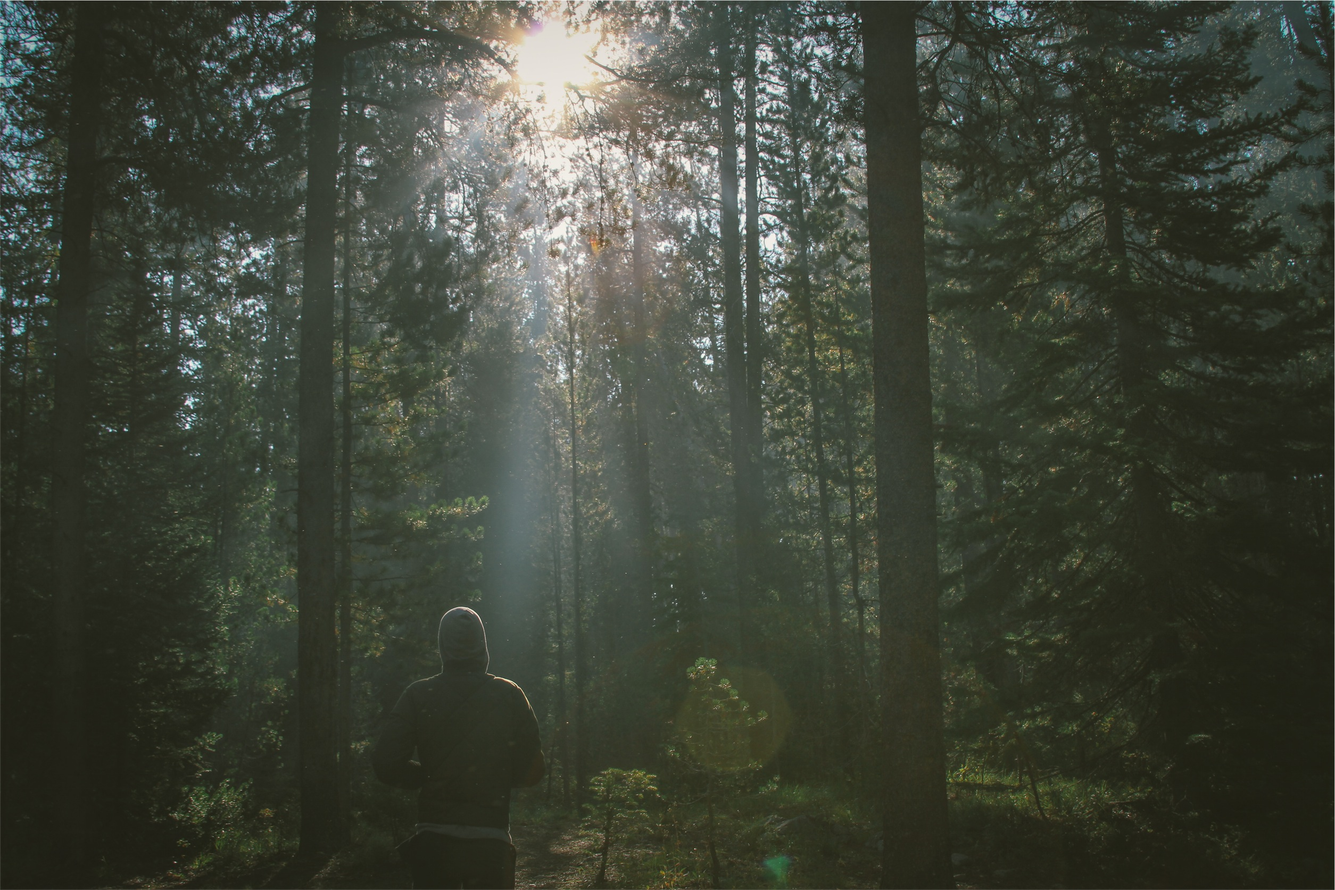
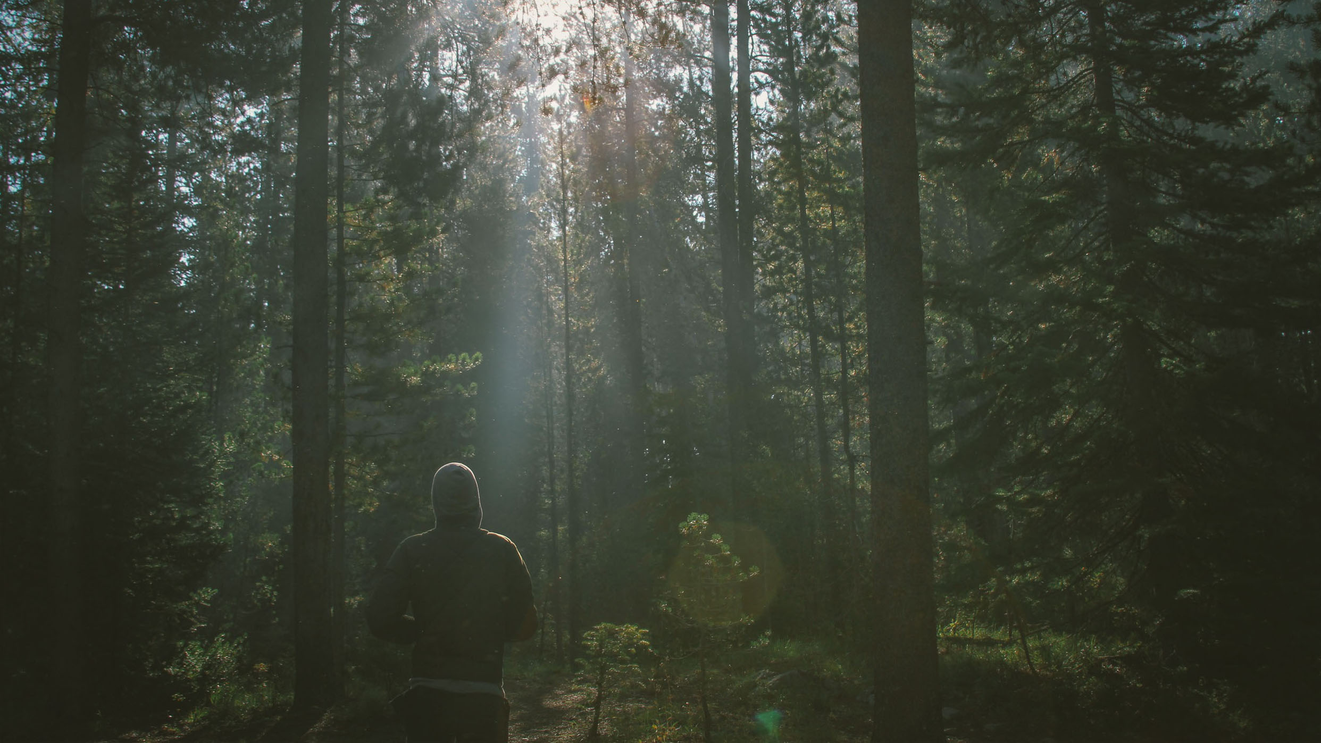
fixed background

diff --git a/app/styles/app.scss b/app/styles/app.scss
@@ -2,10 +2,7 @@
 @import "fonts";
 
 html {
-  background-image: url("/assets/back-and-trees.jpeg");
-  background-size: cover;
-  background-position: 0px -165px,
-                        center;
+  background-color: black;
   background-repeat: no-repeat;
   position: relative;
 }
@@ -16,7 +13,7 @@ html {
 
 .title {
   text-align: center;
-  /* font-family: $2p; */
+  font-family: $baron;
   color: white;
 }
 
@@ -34,7 +31,6 @@ canvas {
 nav {
   display: text-center;
   font-family: $jaapokki;
-  margin-bottom: 100px;
 }
 
 nav ul {
@@ -79,15 +75,16 @@ th, td {
   color: white;
   text-align: center;
   margin-bottom: 40px;
+  background: black;
 }
 
 input[type="text"] {
-  /* font-family: $2p; */
+  font-family: $baron;
   text-align: center;
 }
 
 .submit {
-  /* font-family: $2p; */
+  font-family: $baron;
 }
 
 .margin-right-100 {
@@ -104,14 +101,18 @@ input[type="text"] {
 
 .binding {
   margin: 0 auto;
+  background: black;
 }
 
 .intro {
-  height: 200px;
-  width: 50%;
+  background-image: url("/assets/back-and-trees.jpeg");
+  background-size: cover;
+  height: 650px;
+  width: 100%;
   text-align: center;
   margin: 0px auto;
   color: white;
+  padding-top: 200px;
 }
 
 .intro h1 {

diff --git a/app/views/games/binding.js b/app/views/games/binding.js
@@ -238,6 +238,7 @@ export default Ember.View.extend({
     };
 
     MyState.prototype.renderLevel = function() {
+      this.announcement.alpha = 0;
       this.textLeft.visible = false;
       this.textRight.visible = false;
       this.exitText.visible = false;
@@ -492,7 +493,7 @@ export default Ember.View.extend({
         this.textLeft.visible = false;
         game.input.keyboard.clearCaptures();
         this.viewContext.get('controller').send('endGame', this.killCount);
-        game.input.onTap.addOnce(this.restart,this);
+        game.input.onTap.addOnce(this.restart, this);
       }
     };
 
@@ -516,7 +517,8 @@ export default Ember.View.extend({
       this.killCount = 0;
       this.monsterFireRate = 1200;
       this.playerFiringRate = 300;
-      this.create();
+      this.announcement.alpha = 0;
+      this.create(game);
     };
 
     MyState.prototype.randomMonster = function(x, y) {

diff --git a/app/controllers/games/binding.js b/app/controllers/games/binding.js
@@ -21,6 +21,10 @@ export default Ember.Controller.extend({
     endGame: function(score) {
       this.set('showScoreSubmit', true);
       this.set('playerScore', score);
+    },
+
+    showScores: function() {
+      
     }
   }
 });
